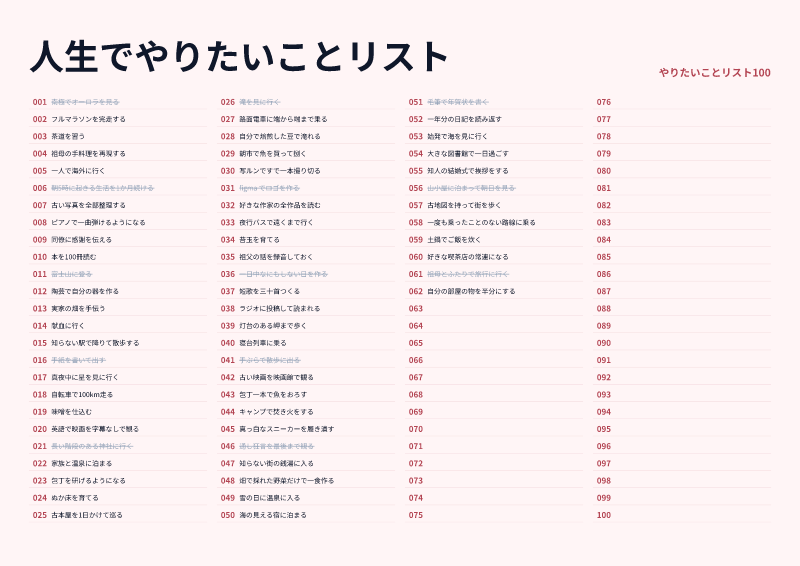
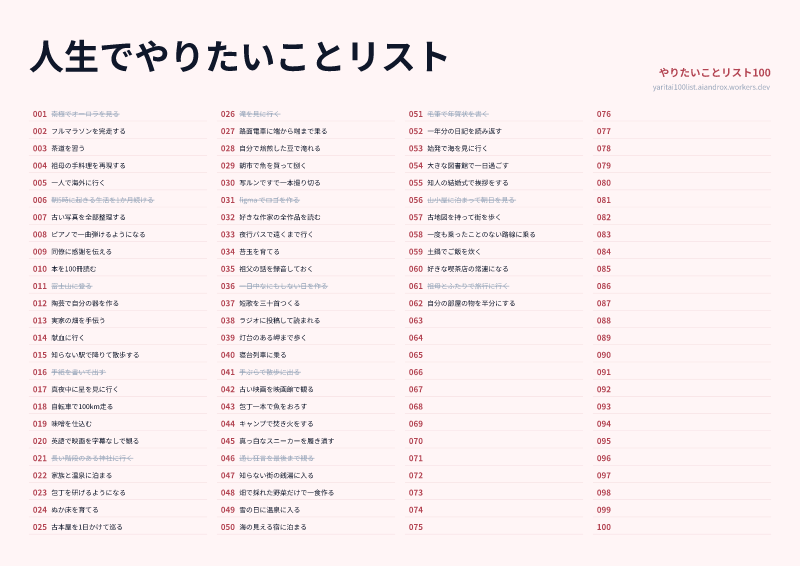
書き出した画像に URL を入れる (#277)
共有ページは noindex なので、サービス名だけでは貼られた画像から
辿り着けない。右上のサービス名の下に URL を1行足す。
見出しに空ける幅は、名前と URL の広い方から計算する。

diff --git a/packages/shared/src/export-image-template.ts b/packages/shared/src/export-image-template.ts
@@ -1,7 +1,7 @@
 import type { ExportImagePayload } from './export-image'
 import { ITEMS_PER_LIST_MAX } from './limits'
 import { OG_IMAGE_WIDTH, type OgElement } from './og-template'
-import { SERVICE_NAME, SERVICE_TAGLINE } from './service'
+import { SERVICE_NAME, SERVICE_TAGLINE, SERVICE_URL } from './service'
 
 /**
  * 画像出力のレイアウト（#190）。**4列 × 25行に 001〜100 を全部並べる。**
@@ -89,12 +89,37 @@ const COLUMN_WIDTH = (CONTENT_WIDTH - COLUMN_GAP * (COLUMNS - 1)) / COLUMNS
 const SERVICE_FONT_SIZE = 26
 
 /**
- * 見出しに使える幅。**サービス名の分を空けてある。**
+ * サービス名の下に置く URL の大きさ（#274）。
  *
- * 🔴 **空ける幅を手で書かない。** サービス名の実際の幅から引く。
- * 決め打ちにすると、名前が変わったときに**見出しと重なる**（気づくのは画像を見たときだけ）。
+ * **名前より小さく。** 主役はリストの中身で、URL は「どこで作れるか」の注記でしかない。
  */
-const TITLE_MAX_WIDTH = CONTENT_WIDTH - (displayWidth(SERVICE_NAME) * SERVICE_FONT_SIZE) / 2 - 48
+const SERVICE_URL_FONT_SIZE = 18
+
+/** その文字列を、その大きさで描いたときの幅（px）。 */
+function textWidth(value: string, fontSize: number): number {
+  return (displayWidth(value) * fontSize) / 2
+}
+
+/**
+ * 右上のかたまり（サービス名と URL）の幅。**広い方に合わせる。**
+ *
+ * 🔴 **URL の方が広いことがある。** `yaritai100list.aiandrox.workers.dev` は
+ * 半角35文字あるので、名前より小さい字でも横に長い。
+ * 名前の幅だけで空けると、**長い見出しのときに重なる。**
+ */
+const HEADER_RIGHT_WIDTH = Math.max(
+  textWidth(SERVICE_NAME, SERVICE_FONT_SIZE),
+  textWidth(SERVICE_URL, SERVICE_URL_FONT_SIZE),
+)
+
+/**
+ * 見出しに使える幅。**右上のかたまりの分を空けてある。**
+ *
+ * 🔴 **空ける幅を手で書かない。** 実際に描かれる幅から引く。
+ * 決め打ちにすると、名前や URL が変わったときに**見出しと重なる**
+ * （気づくのは画像を見たときだけ）。
+ */
+const TITLE_MAX_WIDTH = CONTENT_WIDTH - HEADER_RIGHT_WIDTH - 48
 
 /**
  * 見出しの大きさの候補。**大きい方から試す。**
@@ -262,10 +287,19 @@ export function buildExportImageTemplate(payload: ExportImagePayload): OgElement
     [
       element({ alignItems: 'baseline', justifyContent: 'space-between', marginBottom: '40px' }, [
         element({ fontSize: title.fontSize, fontWeight: 700 }, title.text),
-        element(
-          { fontSize: SERVICE_FONT_SIZE, fontWeight: 700, color: COLORS.brandDeep },
-          SERVICE_NAME,
-        ),
+
+        /*
+         * 右上はサービス名と URL の2行（#274）。
+         * 🔴 **URL を落とさないこと。** これが**貼られた画像から戻ってくる唯一の道**で、
+         * 共有ページは検索に載せていない（`SERVICE_URL` のコメント）
+         */
+        element({ flexDirection: 'column', alignItems: 'flex-end', gap: '4px' }, [
+          element(
+            { fontSize: SERVICE_FONT_SIZE, fontWeight: 700, color: COLORS.brandDeep },
+            SERVICE_NAME,
+          ),
+          element({ fontSize: SERVICE_URL_FONT_SIZE, color: COLORS.muted }, SERVICE_URL),
+        ]),
       ]),
 
       element({ flexGrow: 1, gap: `${String(COLUMN_GAP)}px` }, columns),

diff --git a/apps/web/test/export-image-template.test.ts b/apps/web/test/export-image-template.test.ts
@@ -14,6 +14,7 @@ import {
   SERVICE_OG_ITEM_COUNT,
   SERVICE_OG_TEXT_WIDTH,
   SERVICE_TAGLINE,
+  SERVICE_URL,
   type ExportImagePayload,
   type OgElement,
 } from '@yaritai100list/shared'
@@ -142,6 +143,39 @@ describe('buildExportImageTemplate', () => {
     expect(found).toContain('南極に行く')
   })
 
+  /**
+   * 🔴 **貼られた画像から戻ってくる唯一の道**（#274）。
+   * 共有ページは `noindex` なので、これが落ちると経路が完全に切れる。
+   */
+  it('🔴 URL が載る（画像から戻ってこられる）', () => {
+    const found = texts(buildExportImageTemplate(payload()))
+
+    expect(found).toContain(SERVICE_URL)
+  })
+
+  it('🔴 URL は定数から来ている（画像にべた書きしない）', () => {
+    const found = texts(buildExportImageTemplate(payload()))
+
+    // ホスト名を手で書いた文字列が混ざっていないこと。
+    // 定数を変えたときに**画像だけ古いまま**になるのを防ぐ
+    const hosts = found.filter((value) => value.includes('workers.dev'))
+
+    expect(hosts).toEqual([SERVICE_URL])
+  })
+
+  it('🔴 長い見出しでも、右上のサービス名と URL に重ならない', () => {
+    // 見出しに使える幅は「中身の幅 − 右上のかたまり」。
+    // **URL の方が名前より横に長い**ので、そちらで空けていないと重なる
+    const longest = 'あ'.repeat(LIST_TITLE_MAX_LENGTH)
+    const fitted = fitTitle(longest)
+    const contentWidth = EXPORT_IMAGE_WIDTH - 72 * 2
+    const urlWidth = (displayWidth(SERVICE_URL) * 18) / 2
+
+    expect((displayWidth(fitted.text) * fitted.fontSize) / 2).toBeLessThanOrEqual(
+      contentWidth - urlWidth,
+    )
+  })
+
   it('🔴 番号が 001 から 100 まで全部ある（未入力でも出す）', () => {
     const found = texts(buildExportImageTemplate(payload({ items: [] })))
 
@@ -195,10 +229,27 @@ describe('buildExportImageTemplate', () => {
   })
 
   it('🔴 作者が載る余地が無い', () => {
-    // そもそも ExportImagePayload に入っていないので、書こうと思っても書けない
-    const found = texts(buildExportImageTemplate(payload()))
+    /*
+     * そもそも `ExportImagePayload` に入っていないので、書こうと思っても書けない。
+     *
+     * ⚠ **`aiandrox` が含まれないこと、では見張れなくなった**（#274）。
+     * サービスの URL（`yaritai100list.aiandrox.workers.dev`）に入っている文字列で、
+     * これは**開発者のアカウント名であって、リストの持ち主ではない。**
+     * 代わりに「**渡したもの以外は1文字も出ない**」を見る。こちらの方が強い
+     */
+    const found = texts(
+      buildExportImageTemplate(
+        payload({ title: 'ぼくのリスト', items: [{ text: '南極に行く', completed: true }] }),
+      ),
+    )
+    const allowed = new Set(['ぼくのリスト', '南極に行く', SERVICE_NAME, SERVICE_URL])
 
-    expect(found.join('')).not.toContain('aiandrox')
+    // 空文字は未入力の枠（番号だけ出す。`PRODUCT_SPEC.md` §5.3）
+    const leaked = found.filter(
+      (value) => value !== '' && !allowed.has(value) && !/^\d{3}$/.test(value),
+    )
+
+    expect(leaked).toEqual([])
   })
 
   it('項目の上限（22文字）でも列からはみ出さない', () => {

diff --git a/packages/shared/src/service.ts b/packages/shared/src/service.ts
@@ -16,6 +16,23 @@ export const SERVICE_NAME = 'やりたいことリスト100'
 export const SERVICE_NAME_EN = 'yaritai100list'
 
 /**
+ * 見せる用の URL。**書き出し画像に入れる**（#274）。
+ *
+ * 🔴 **貼られた画像から戻ってくる道がこれしかない。**
+ * 共有ページは `noindex`（`PRODUCT_SPEC.md` §5.1）なので、
+ * サービス名だけ入れても検索では辿り着けない
+ * （「やりたいことリスト100」は他所でも使われている言葉）。
+ *
+ * ⚠ **ここに書いてよいのは、変わらないと決めてあるから。**
+ * `workers.dev` のサブドメインは**変更しない**（変えると共有リンクが死ぬ。
+ * `docs/console-settings.md`）。カスタムドメインも使わない（`TECH_STACK.md` §8）。
+ *
+ * 🔴 **`https://` を付けない。** 画像に載せる表示用の文字列で、
+ * リンクとして押せるわけではない。**短いほど邪魔にならない。**
+ */
+export const SERVICE_URL = 'yaritai100list.aiandrox.workers.dev'
+
+/**
  * サービスを一言で言ったもの。**OGP 画像に載せる**（#229）。
  *
  * 🔴 **利用者が書いた文をそのまま使う**（2026-08-09）。**言い換えない。**
